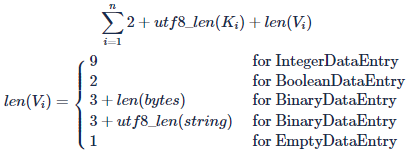
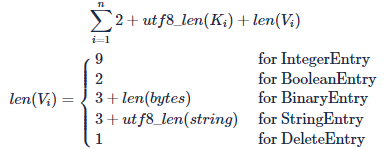
revert changes from v6

diff --git a/docs/ru/ride/v6/limits/readme.md b/docs/ru/ride/v6/limits/readme.md
@@ -23,13 +23,7 @@
 | Количество платежей, приложенных к вызову | 10 |
 | Общее количество действий скрипта [Issue](/ru/ride/structures/script-actions/issue), [Reissue](/ru/ride/structures/script-actions/reissue), [Burn](/ru/ride/structures/script-actions/burn), [SponsorFee](/ru/ride/structures/script-actions/sponsor-fee), [ScriptTransfer](/ru/ride/structures/script-actions/script-transfer), [Lease](/ru/ride/structures/script-actions/lease) и [LeaseCancel](/ru/ride/structures/script-actions/lease-cancel), выполняемых скриптом вызова и всеми вызываемыми функциями в одной транзакции<sup>(1)</sup> | 30 |
 | Общее количество действий скрипта [BinaryEntry](/ru/ride/structures/script-actions/binary-entry), [BooleanEntry](/ru/ride/structures/script-actions/boolean-entry), [DeleteEntry](/ru/ride/structures/script-actions/delete-entry), [IntegerEntry](/ru/ride/structures/script-actions/int-entry), [StringEntry](/ru/ride/structures/script-actions/string-entry), выполняемых скриптом вызова и всеми вызываемыми функциями в одной транзакции<sup>(1)</sup> | 100 |
-| Суммарный размер записей<sup>(2)</sup> [хранилища данных аккаунта](/ru/blockchain/account/account-data-storage) для всех действий скрипта `BinaryEntry`, `BooleanEntry`, `IntegerEntry`, `StringEntry`, выполняемых одной вызываемой функцией или скриптом вызова без учета вложенных вызовов | 5 Кбайт |
-| Суммарный размер записей<sup>(2)</sup> хранилища данных аккаунта для всех действий скрипта `BinaryEntry`, `BooleanEntry`, `IntegerEntry`, `StringEntry`, выполняемых выполняемых скриптом вызова и всеми вызываемыми функциями в одной транзакции<sup>(1)</sup> | 15 Кбайт |
+| Суммарный размер записей [хранилища данных аккаунта](/ru/blockchain/account/account-data-storage) для всех действий скрипта `BinaryEntry`, `BooleanEntry`, `IntegerEntry`, `StringEntry`, выполняемых одной вызываемой функцией или скриптом вызова без учета вложенных вызовов | 5 Кбайт |
+| Суммарный размер записей хранилища данных аккаунта для всех действий скрипта `BinaryEntry`, `BooleanEntry`, `IntegerEntry`, `StringEntry`, выполняемых выполняемых скриптом вызова и всеми вызываемыми функциями в одной транзакции<sup>(1)</sup> | 15 Кбайт |
 
 <sup>(1)</sup> Транзакция вызова скрипта или транзакция применения выражения.
-
-<sup>(2)</sup> Суммарный размер записей рассчитывается следующим образом:
-
-   ![](./_assets/data-limit.png)
-
-   Здесь <i>K</i><sub><i>i</i></sub> — ключ записи, <i>V</i><sub><i>i</i></sub> — значение.

diff --git a/docs/en/ride/v6/limits/readme.md b/docs/en/ride/v6/limits/readme.md
@@ -23,13 +23,7 @@
 | Number of payments attached to an invocation | 10 |
 | Total number of [Issue](/en/ride/structures/script-actions/issue), [Reissue](/en/ride/structures/script-actions/reissue), [Burn](/en/ride/structures/script-actions/burn), [SponsorFee](/en/ride/structures/script-actions/sponsor-fee), [ScriptTransfer](/en/ride/structures/script-actions/script-transfer), [Lease](/en/ride/structures/script-actions/lease), and [LeaseCancel](/en/ride/structures/script-actions/lease-cancel) script actions executed by a call script and all callable functions in a single transaction<sup>(1)</sup> | 30 |
 | Total number of [BinaryEntry](/en/ride/structures/script-actions/binary-entry), [BooleanEntry](/en/ride/structures/script-actions/boolean-entry), [DeleteEntry](/en/ride/structures/script-actions/delete-entry), [IntegerEntry](/en/ride/structures/script-actions/int-entry), [StringEntry](/en/ride/structures/script-actions/string-entry) script actions executed by a call script and all callable functions in a single transaction<sup>(1)</sup> | 100 |
-| Total size of the data<sup>(2)</sup> written to the [account data storage](/en/blockchain/account/account-data-storage), for all `BinaryEntry`, `BooleanEntry`, `IntegerEntry`, `StringEntry` script actions executed by a callable function or a call script excluding nested invocations | 5 Kbytes |
-| Total size of data<sup>(2)</sup> written to the account data storage by all `BinaryEntry`, `BooleanEntry`, `IntegerEntry`, `StringEntry` script actions executed by a call script and all callable functions in a single transaction<sup>(1)</sup> | 15 Kbytes |
+| Total size of the data written to the [account data storage](/en/blockchain/account/account-data-storage), for all `BinaryEntry`, `BooleanEntry`, `IntegerEntry`, `StringEntry` script actions executed by a callable function or a call script excluding nested invocations | 5 Kbytes |
+| Total size of data written to the account data storage by all `BinaryEntry`, `BooleanEntry`, `IntegerEntry`, `StringEntry` script actions executed by a call script and all callable functions in a single transaction<sup>(1)</sup> | 15 Kbytes |
 
 <sup>(1)</sup> Invoke Script transaction or Invoke Expression transaction.
-
-<sup>(2)</sup> The total size of data is calculated as follows:
-
-   ![](./_assets/data-limit.png)
-
-   Here <i>K</i><sub><i>i</i></sub> is a key of the data entry, and <i>V</i><sub><i>i</i></sub> is its value.
